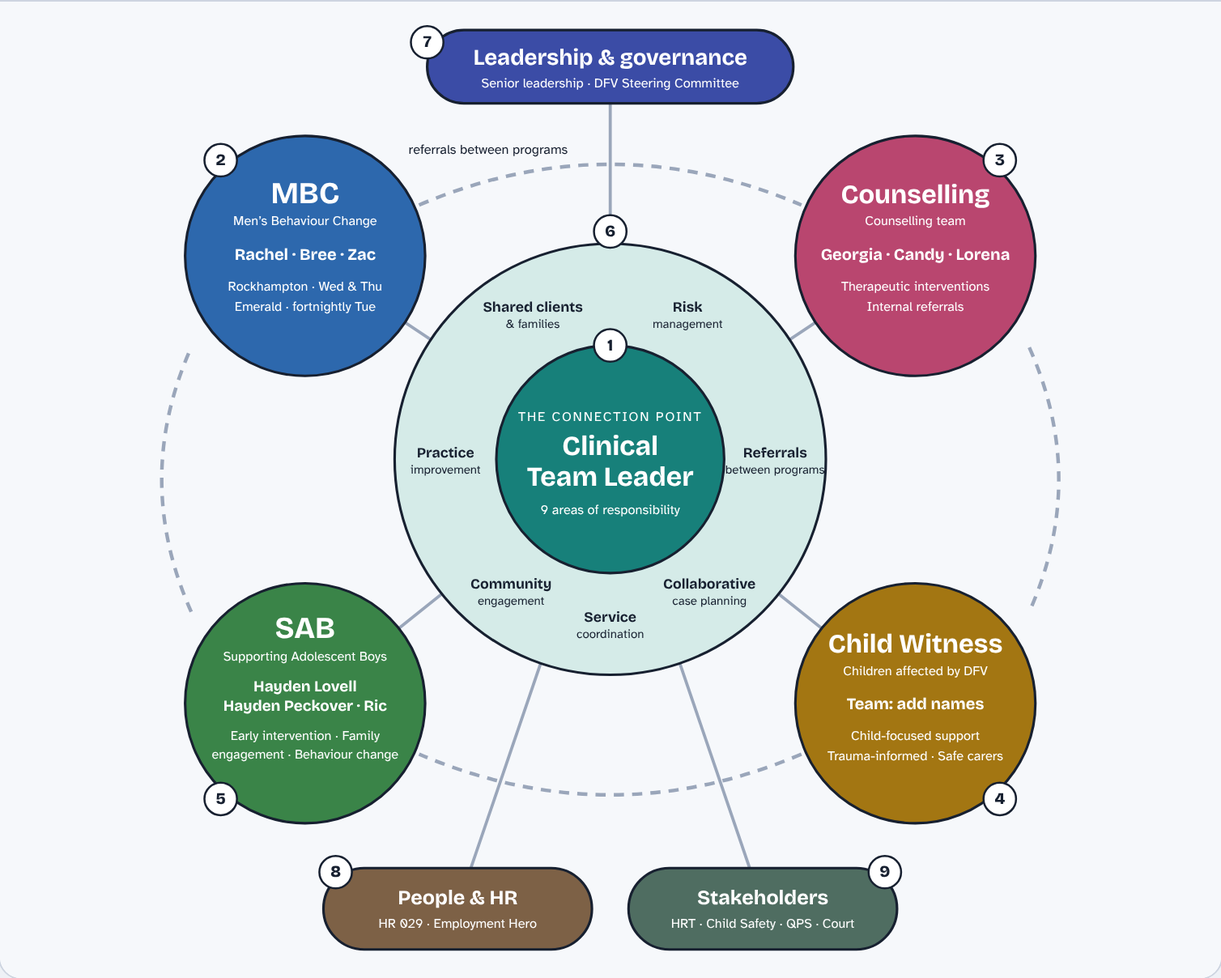
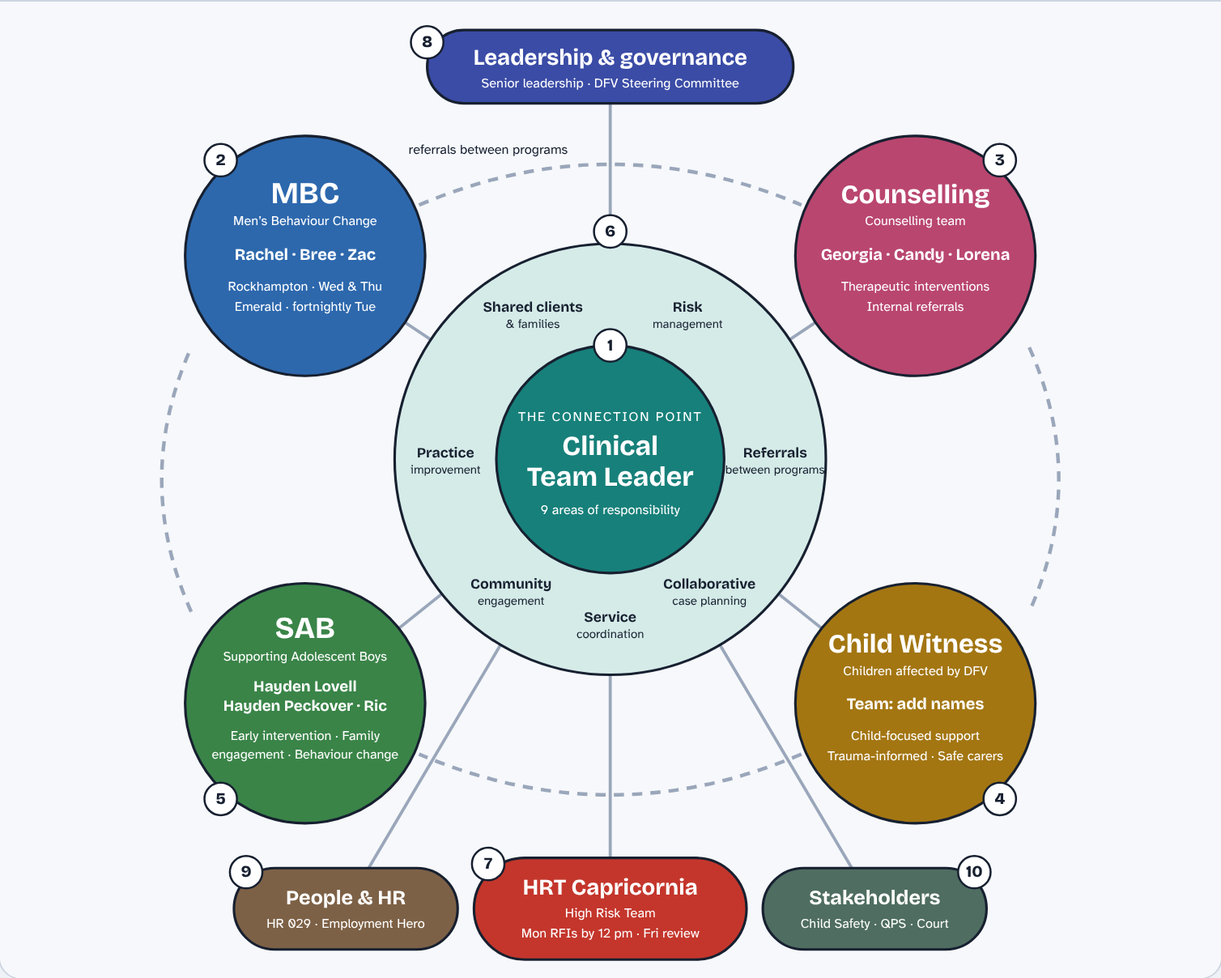
Add HRT Capricornia weekly routine to ecosystem, house map and directions
Claude-Session: https://claude.ai/code/session_019PSDoDWkrb4mkScErA8UkE

diff --git a/Visual Learning Board/clinical-team-leader-ecosystem.html b/Visual Learning Board/clinical-team-leader-ecosystem.html
@@ -7,7 +7,7 @@
 :root {
   --bg: #eef1f6; --surface: #ffffff; --ink: #172030; --muted: #536079; --line: #cdd4e0; --focus: #ff9f1c;
   --canvas: #f6f8fb; --wire: #9aa6ba; --ring: #d5ebe8;
-  --gov: #3b4ca6; --role: #17807a; --admin: #7d6146; --mbc: #2d68ad; --sab: #3a8448; --couns: #b9466f; --part: #4f6d61; --cw: #a37612;
+  --gov: #3b4ca6; --role: #17807a; --admin: #7d6146; --mbc: #2d68ad; --sab: #3a8448; --couns: #b9466f; --part: #4f6d61; --cw: #a37612; --risk: #c4362c;
   --display: "Bricolage Grotesque", "Avenir Next", "Segoe UI", system-ui, sans-serif;
   --body: "Atkinson Hyperlegible", "Verdana", "Segoe UI", system-ui, sans-serif;
 }
@@ -84,7 +84,7 @@ ol.steps li::marker { font-family: var(--display); font-weight: 800; }
   <header>
     <span class="eyebrow">Leadership presentation · CatholicCare CQ DFV services</span>
     <h1>Clinical Team Leader Ecosystem</h1>
-    <p>The Clinical Team Leader is the connection point between four programs, the leadership above them, the people processes that support staff, and the agencies outside. Click any part to zoom in, or press Next to walk the nine stops in presentation order.</p>
+    <p>The Clinical Team Leader is the connection point between four programs, the leadership above them, the people processes that support staff, and the agencies outside. Click any part to zoom in, or press Next to walk the ten stops in presentation order.</p>
   </header>
 
   <section class="board" aria-label="Interactive ecosystem diagram">
@@ -104,8 +104,9 @@ ol.steps li::marker { font-family: var(--display); font-weight: 800; }
         <line class="wire" x1="600" y1="450" x2="900" y2="250"/>
         <line class="wire" x1="600" y1="450" x2="300" y2="690"/>
         <line class="wire" x1="600" y1="450" x2="900" y2="690"/>
-        <line class="wire" x1="600" y1="450" x2="450" y2="890"/>
-        <line class="wire" x1="600" y1="450" x2="750" y2="890"/>
+        <line class="wire" x1="600" y1="450" x2="340" y2="890"/>
+        <line class="wire" x1="600" y1="450" x2="600" y2="890"/>
+        <line class="wire" x1="600" y1="450" x2="860" y2="890"/>
         <!-- referrals between programs -->
         <path class="wire ref" d="M412 200 Q 600 120 788 200"/>
         <path class="wire ref" d="M1012 340 Q 1070 470 1012 600"/>
@@ -114,11 +115,11 @@ ol.steps li::marker { font-family: var(--display); font-weight: 800; }
         <text class="t s ink" x="480" y="150" font-size="13">referrals between programs</text>
 
         <!-- 7 Leadership -->
-        <g class="node" data-z="lead" tabindex="0" role="button" aria-label="Stop 7, leadership and governance">
+        <g class="node" data-z="lead" tabindex="0" role="button" aria-label="Stop 8, leadership and governance">
           <rect class="shape" x="420" y="28" width="360" height="72" rx="36" fill="var(--gov)"/>
           <text class="t" x="600" y="62" font-size="22">Leadership &amp; governance</text>
           <text class="t s" x="600" y="84" font-size="13">Senior leadership · DFV Steering Committee</text>
-          <g class="badge" transform="translate(420,40)"><circle r="16"/><text>7</text></g>
+          <g class="badge" transform="translate(420,40)"><circle r="16"/><text>8</text></g>
         </g>
 
         <!-- 2 MBC -->
@@ -166,20 +167,29 @@ ol.steps li::marker { font-family: var(--display); font-weight: 800; }
           <g class="badge" transform="translate(217,784)"><circle r="16"/><text>5</text></g>
         </g>
 
-        <!-- 8 HR -->
-        <g class="node" data-z="hr" tabindex="0" role="button" aria-label="Stop 8, people and HR processes">
-          <rect class="shape" x="318" y="852" width="264" height="80" rx="40" fill="var(--admin)"/>
-          <text class="t" x="450" y="888" font-size="20">People &amp; HR</text>
-          <text class="t s" x="450" y="911" font-size="13">HR 029 · Employment Hero</text>
-          <g class="badge" transform="translate(330,856)"><circle r="16"/><text>8</text></g>
+        <!-- 9 HR -->
+        <g class="node" data-z="hr" tabindex="0" role="button" aria-label="Stop 9, people and HR processes">
+          <rect class="shape" x="230" y="852" width="220" height="80" rx="40" fill="var(--admin)"/>
+          <text class="t" x="340" y="888" font-size="20">People &amp; HR</text>
+          <text class="t s" x="340" y="911" font-size="13">HR 029 · Employment Hero</text>
+          <g class="badge" transform="translate(242,856)"><circle r="16"/><text>9</text></g>
         </g>
 
-        <!-- 9 Stakeholders -->
-        <g class="node" data-z="stake" tabindex="0" role="button" aria-label="Stop 9, external stakeholders">
-          <rect class="shape" x="618" y="852" width="264" height="80" rx="40" fill="var(--part)"/>
-          <text class="t" x="750" y="888" font-size="20">Stakeholders</text>
-          <text class="t s" x="750" y="911" font-size="13">HRT · Child Safety · QPS · Court</text>
-          <g class="badge" transform="translate(870,856)"><circle r="16"/><text>9</text></g>
+        <!-- 7 HRT -->
+        <g class="node" data-z="hrt" tabindex="0" role="button" aria-label="Stop 7, HRT Capricornia, the High Risk Team">
+          <rect class="shape" x="466" y="842" width="268" height="100" rx="50" fill="var(--risk)"/>
+          <text class="t" x="600" y="878" font-size="22">HRT Capricornia</text>
+          <text class="t s" x="600" y="900" font-size="13">High Risk Team</text>
+          <text class="t s" x="600" y="920" font-size="13">Mon RFIs by 12 pm · Fri review</text>
+          <g class="badge" transform="translate(480,848)"><circle r="16"/><text>7</text></g>
+        </g>
+
+        <!-- 10 Stakeholders -->
+        <g class="node" data-z="stake" tabindex="0" role="button" aria-label="Stop 10, external stakeholders">
+          <rect class="shape" x="750" y="852" width="220" height="80" rx="40" fill="var(--part)"/>
+          <text class="t" x="860" y="888" font-size="20">Stakeholders</text>
+          <text class="t s" x="860" y="911" font-size="13">Child Safety · QPS · Court</text>
+          <g class="badge" transform="translate(958,856)"><circle r="16"/><text>10</text></g>
         </g>
 
         <!-- 6 Overlap ring -->
@@ -215,8 +225,8 @@ ol.steps li::marker { font-family: var(--display); font-weight: 800; }
       <h2 id="pz">Turn the picture into your presentation</h2>
       <ol class="steps">
         <li><b>Background.</b> Upload the ecosystem picture as the Prezi background. Use the labelled version for presenting and the blank one to rehearse.</li>
-        <li><b>Topics.</b> Put a topic over each of the nine parts, named exactly as on the picture.</li>
-        <li><b>Path.</b> Order the path 1 to 9: you, the four programs, the overlap, then outward to leadership, people and stakeholders. End by zooming back out to the whole picture.</li>
+        <li><b>Topics.</b> Put a topic over each of the ten parts, named exactly as on the picture.</li>
+        <li><b>Path.</b> Order the path 1 to 10: you, the four programs, the overlap, HRT, then outward to leadership, people and stakeholders. End by zooming back out to the whole picture.</li>
         <li><b>Subtopics.</b> Inside the centre circle, add the nine responsibilities as three groups of three: Leading practice, Leading people, Leading outward. Three groups are easier to hold than nine items.</li>
         <li><b>Speaker notes.</b> Paste the presenter line for each stop into that topic’s notes.</li>
         <li><b>Rehearse with recall mode.</b> Turn on Recall mode here, click each part and say your line before revealing it.</li>
@@ -237,7 +247,7 @@ const Z = {
     say:'MBC works with men using violence, keeping the safety of women and children at the centre. We run in Rockhampton twice a week and in Emerald fortnightly.',
     what:['Group program for men using violence','Rockhampton groups on Wednesday and Thursday','Emerald group fortnightly on Tuesday','Participation reported through collateral checks and HRT RFIs'],
     who:['Rachel','Bree','Zac'],
-    next:[['couns','Partners and family members referred to Counselling'],['sab','Shared families with adolescent boys'],['stake','Collateral checks and HRT']]},
+    next:[['couns','Partners and family members referred to Counselling'],['sab','Shared families with adolescent boys'],['hrt','RFIs and status updates for HRT']]},
   couns: { n:3, c:'--couns', band:'Program', title:'Counselling team', box:[772,122,256,256],
     say:'The Counselling team provides therapeutic interventions and takes internal referrals from our other programs.',
     what:['Therapeutic interventions','Internal referrals from MBC and SAB'],
@@ -257,18 +267,25 @@ const Z = {
     say:'The programs don’t work in silos. Families, risk and referrals cross between them, and this overlap is where my role adds the most value.',
     what:['Shared clients and families','Risk management','Referrals between programs','Collaborative case planning','Service coordination','Community engagement','Practice improvement'],
     next:[['ctl','The Clinical Team Leader holds the overlap together'],['stake','Community engagement reaches outward']]},
-  lead: { n:7, c:'--gov', band:'Above', title:'Leadership & governance', box:[400,10,400,110],
+  lead: { n:8, c:'--gov', band:'Above', title:'Leadership & governance', box:[400,10,400,110],
     say:'Upward, I report outcomes to senior leadership and the DFV Steering Committee and carry their direction back into practice.',
     what:['CatholicCare CQ senior leadership','DFV Steering Committee priorities and KPIs','Reporting and outcomes','Clinical governance frameworks and policy'],
     next:[['ctl','Direction comes down through the centre'],['hr','Policy shapes people processes']]},
-  hr: { n:8, c:'--admin', band:'Alongside', title:'People & HR processes', box:[300,830,300,120],
+  hr: { n:9, c:'--admin', band:'Alongside', title:'People & HR processes', box:[220,830,240,120],
     say:'Alongside the clinical work, I hold the people processes that keep the team safe, skilled and supported.',
     what:['Line management recorded on HR 029','Employment Hero for leave and compliance','Professional supervision and development','Student placements, including CQU social work','Workforce wellbeing'],
     next:[['ctl','Supervision and support'],['lead','HR policy from leadership']]},
-  stake: { n:9, c:'--part', band:'Outside', title:'External stakeholders', box:[600,830,300,120],
+  hrt: { n:7, c:'--risk', band:'Weekly rhythm · Highest risk', title:'HRT Capricornia (High Risk Team)', box:[450,826,300,130],
+    say:'HRT is where we hold the highest risk together with our partners. Every week I complete our RFIs by Monday midday, answer collateral checks as soon as they arrive, and on Friday we review where every referred PUV and victim-survivor is at.',
+    groups:[['Monday',['Complete and send the RFIs by 12 pm']],
+            ['Every day',['Respond to collateral checks as soon as possible']],
+            ['Friday',['Review of the week','Receive the new RFIs for next week','Status meeting on each PUV and victim-survivor (VS) referred to CatholicCare']]],
+    who:['HRT Capricornia','Tennille and Corin'],
+    next:[['overlap','Risk management across programs'],['mbc','RFIs and collateral checks about MBC participants'],['stake','Child Safety, QPS and Corrections sit at HRT too']]},
+  stake: { n:10, c:'--part', band:'Outside', title:'External stakeholders', box:[740,830,240,120],
     say:'Outward, I keep our partnerships strong, sharing information safely with the agencies that hold risk with us.',
-    what:['HRT Capricornia, the High Risk Team','Child Safety','Queensland Police Service','Corrective Services','Rockhampton court support','CQUniversity'],
-    next:[['ctl','Stakeholder engagement'],['mbc','Collateral checks about MBC participants']]}
+    what:['Child Safety','Queensland Police Service','Corrective Services','Rockhampton court support','CQUniversity'],
+    next:[['ctl','Stakeholder engagement'],['hrt','Partners meet at HRT']]}
 };
 const ORDER = Object.keys(Z).sort((a,b)=>Z[a].n-Z[b].n);
 const svg = document.getElementById('map'), panel = document.getElementById('panel');
@@ -304,14 +321,14 @@ function render(){
   if (!cur){
     panel.style.setProperty('--zc','var(--ink)');
     panel.innerHTML = `<div class="head"><span class="eyebrow">Start here</span><h2>Read it from the centre out</h2></div>
-      <ul><li><b>Centre:</b> the Clinical Team Leader and nine areas of responsibility</li><li><b>Ring:</b> the seven places the programs overlap</li><li><b>Four circles:</b> MBC, Counselling, Child Witness and SAB with their teams</li><li><b>Edges:</b> leadership above, people processes and stakeholders below</li></ul>
+      <ul><li><b>Centre:</b> the Clinical Team Leader and nine areas of responsibility</li><li><b>Ring:</b> the seven places the programs overlap</li><li><b>Four circles:</b> MBC, Counselling, Child Witness and SAB with their teams</li><li><b>Edges:</b> leadership above. Below: people processes, HRT Capricornia and stakeholders</li></ul>
       <p>Dashed lines show referrals moving between the programs.</p>
       <div class="links"><button type="button" data-go="ctl"><span class="dot" style="background:var(--role)"></span><b>Start the walk-through</b></button></div>`;
     return;
   }
   const z = Z[cur];
   panel.style.setProperty('--zc','var('+z.c+')');
-  const head = `<div class="head"><span class="eyebrow">Stop ${z.n} of 9 · ${esc(z.band)}</span><h2>${esc(z.title)}</h2></div>`;
+  const head = `<div class="head"><span class="eyebrow">Stop ${z.n} of 10 · ${esc(z.band)}</span><h2>${esc(z.title)}</h2></div>`;
   if (recall && !revealed){
     panel.innerHTML = head + `<div class="reveal"><p>Say your presenter line out loud, then name what sits here. Then check.</p><button type="button" id="reveal">Reveal</button></div>`;
     document.getElementById('reveal').onclick = ()=>{ revealed = true; render(); };
@@ -328,7 +345,7 @@ function go(k){
   cur = k; revealed = false;
   document.querySelectorAll('.node').forEach(g=>g.classList.toggle('on', g.dataset.z===k));
   zoomTo(k ? pad(Z[k].box) : FULL);
-  document.getElementById('stopcount').textContent = k ? `Stop ${Z[k].n} of 9` : 'Overview';
+  document.getElementById('stopcount').textContent = k ? `Stop ${Z[k].n} of 10` : 'Overview';
   render();
   try { history.replaceState(null,'', k ? '#'+k : location.pathname); } catch(e){}
 }

diff --git a/Visual Learning Board/prezi-build-directions.html b/Visual Learning Board/prezi-build-directions.html
@@ -105,14 +105,16 @@ const ECO_TOPICS = [
   C('--sab','Supporting Adolescent Boys (SAB)','Circle, bottom left'),
   C('--role','Where the overlap occurs','Large circle, over the pale ring'),
   C('--gov','Leadership & governance','Rectangle, top'),
-  C('--admin','People & HR processes','Rectangle, bottom, left of centre'),
-  C('--part','External stakeholders','Rectangle, bottom, right of centre')];
+  C('--admin','People & HR processes','Rectangle, bottom left'),
+  C('--risk','HRT Capricornia (High Risk Team)','Rectangle, bottom centre (red)'),
+  C('--part','External stakeholders','Rectangle, bottom right')];
 const ECO_SUBS = [
   C('--role','Clinical Team Leader','Leading practice: Clinical governance · Quality assurance · Risk assessment and management\nLeading people: Staff development · Supervision and support · Workforce wellbeing\nLeading outward: Stakeholder engagement · Service integration · Reporting and outcomes'),
-  C('--mbc','MBC','Team: Rachel · Bree · Zac\nWhen: Rockhampton Wednesday and Thursday · Emerald fortnightly Tuesday\nConnects to: Counselling referrals · Shared families with SAB · Collateral checks and HRT'),
+  C('--mbc','MBC','Team: Rachel · Bree · Zac\nWhen: Rockhampton Wednesday and Thursday · Emerald fortnightly Tuesday\nConnects to: Counselling referrals · Shared families with SAB · RFIs and status updates for HRT'),
   C('--couns','Counselling','Team: Georgia · Candy · Lorena\nFocus: Therapeutic interventions · Internal referrals\nConnects to: Referrals from MBC and SAB · Shared clients and families'),
   C('--cw','Child Witness','Team: add names\nFocus: Child-focused support · Trauma-informed · Safe carers\nConnects to: SAB · Safe carers to Counselling · Child Safety'),
   C('--sab','SAB','Team: Hayden Lovell · Hayden Peckover · Ric\nFocus: Early intervention · Family engagement · Behaviour change pathways\nConnects to: MBC pathway · Family referrals to Counselling'),
+  C('--risk','HRT Capricornia','Monday: Complete and send the RFIs by 12 pm\nEvery day: Respond to collateral checks as soon as possible\nFriday: Review of the week · New RFIs for next week · Status meeting on each PUV and victim-survivor referred to CatholicCare'),
   C('--role','Where the overlap occurs','Shared clients and families · Risk management · Referrals between programs · Collaborative case planning · Service coordination · Community engagement · Practice improvement')];
 const ECO_NOTES = [
   C('--role','1 · Clinical Team Leader','My role sits at the centre. I connect four programs, the staff in them, our leadership, our people processes and our partner agencies.'),
@@ -121,9 +123,10 @@ const ECO_NOTES = [
   C('--cw','4 · Child Witness','Child Witness supports children who have seen or lived through domestic and family violence, keeping their voices and their safety at the centre.'),
   C('--sab','5 · SAB','SAB is early intervention. We work with adolescent boys and their families on behaviour change pathways before patterns set in.'),
   C('--role','6 · The overlap','The programs don’t work in silos. Families, risk and referrals cross between them, and this overlap is where my role adds the most value.'),
-  C('--gov','7 · Leadership','Upward, I report outcomes to senior leadership and the DFV Steering Committee and carry their direction back into practice.'),
-  C('--admin','8 · People & HR','Alongside the clinical work, I hold the people processes that keep the team safe, skilled and supported.'),
-  C('--part','9 · Stakeholders','Outward, I keep our partnerships strong, sharing information safely with the agencies that hold risk with us.')];
+  C('--risk','7 · HRT Capricornia','HRT is where we hold the highest risk together with our partners. Every week I complete our RFIs by Monday midday, answer collateral checks as soon as they arrive, and on Friday we review where every referred PUV and victim-survivor is at.'),
+  C('--gov','8 · Leadership','Upward, I report outcomes to senior leadership and the DFV Steering Committee and carry their direction back into practice.'),
+  C('--admin','9 · People & HR','Alongside the clinical work, I hold the people processes that keep the team safe, skilled and supported.'),
+  C('--part','10 · Stakeholders','Outward, I keep our partnerships strong, sharing information safely with the agencies that hold risk with us.')];
 
 const HOUSE_TOPICS = [
   C('--gov','Governance & direction','Triangle area, the roof'),
@@ -148,20 +151,20 @@ const PHASES = {
       ['Delete any topics Prezi added for you','Click each one and press Delete. You want an empty canvas.'],
       ['Set ecosystem-labelled.png as the background image','Open the style or theme options, choose Background, and upload the picture. Stretch it to fill the canvas.','The whole diagram shows when you zoom right out.']]},
     { h:'Add a topic over each part', t:'15 min', steps:[
-      ['Add 9 topics, one over each numbered part','Add a topic, then drag and resize it so it sits exactly over that part of the picture. Use a circle for circles and a rectangle for the pill shapes. Copy each title below so the words match the picture.',null,'topics'],
+      ['Add 10 topics, one over each numbered part','Add a topic, then drag and resize it so it sits exactly over that part of the picture. Use a circle for circles and a rectangle for the pill shapes. Copy each title below so the words match the picture.',null,'topics'],
       ['Make the topic frames invisible or transparent','Select each topic and choose a transparent frame in its style options. The picture shows through and Prezi still zooms to it.','You can see the picture clearly with no boxes on top.']]},
     { h:'Fill the topics', t:'15 min', steps:[
-      ['Add subtopics inside the six main topics','Open each topic and add the three groups below as subtopics. Keep it to three per topic. Copy and paste each one.',null,'subs'],
+      ['Add subtopics inside the seven main topics','Open each topic and add the three groups below as subtopics. Keep it to three per topic. Copy and paste each one.',null,'subs'],
       ['Leave Leadership, People & HR and Stakeholders as single slides','The picture already lists what sits there. Your speaker notes do the rest.']]},
     { h:'Set the path', t:'5 min', steps:[
-      ['Check the path order runs 1 to 9','Look at the path list on the left. Drag the topics into this order: Clinical Team Leader, MBC, Counselling, Child Witness, SAB, Where the overlap occurs, Leadership, People & HR, Stakeholders.','The numbers on the left match the badges on the picture.'],
-      ['End on the whole picture','After stop 9, make the last step zoom back out to the full canvas. It lets the audience see the whole ecosystem again while you close.']]},
+      ['Check the path order runs 1 to 10','Look at the path list on the left. Drag the topics into this order: Clinical Team Leader, MBC, Counselling, Child Witness, SAB, Where the overlap occurs, HRT Capricornia, Leadership, People & HR, Stakeholders.','The numbers on the left match the badges on the picture.'],
+      ['End on the whole picture','After stop 10, make the last step zoom back out to the full canvas. It lets the audience see the whole ecosystem again while you close.']]},
     { h:'Add your speaker notes', t:'10 min', steps:[
       ['Paste one presenter line into each topic’s notes','Open the notes area for each topic and paste its line. Only you see these when you present.',null,'notes']]},
     { h:'Rehearse', t:'10 min', steps:[
       ['Duplicate the whole Prezi','Name the copy “Ecosystem rehearsal”.'],
       ['In the copy, swap the background for ecosystem-blank-for-rehearsal.png','The circles and colours stay, the words disappear.'],
-      ['Present the copy once and say each line from memory','Pull the words out before you look. That effort is what makes them stay.','You got through all 9 stops. Check the notes for anything you missed.'],
+      ['Present the copy once and say each line from memory','Pull the words out before you look. That effort is what makes them stay.','You got through all 10 stops. Check the notes for anything you missed.'],
       ['Present the real version once from start to finish','Time it. Aim for about one minute per stop.']]}
   ],
   house: [

diff --git a/Visual Learning Board/cccq-house-map.html b/Visual Learning Board/cccq-house-map.html
@@ -335,7 +335,7 @@ const Z = {
     next:[['role','Records back up your decisions'],['gov','Data feeds the KPIs on the roof']]},
   door:  { n:5,  c:'--door',  band:'Ground floor · Coming in', title:'Front door', box:[440,400,140,240],
     hook:'A letterbox stuffed with envelopes. Referrals, RFIs and collateral checks all come in through this one door.',
-    what:['New referrals into the programs.','Collateral checks from Child Safety, Corrective Services, police and other agencies. You search CSNet and reply Known or Not Known.','Weekly HRT RFIs. A progress email goes to HRT Capricornia, Tennille and Corin before the meeting, and a completed reply after.','Court support requests.'],
+    what:['New referrals into the programs.','Collateral checks from Child Safety, Corrective Services, police and other agencies. You search CSNet and reply Known or Not Known.','HRT RFIs. New RFIs arrive at the Friday HRT meeting, and you complete and send them by 12 pm on Monday.','Collateral checks are answered as soon as possible.','Court support requests.'],
     who:['External agencies','HRT Capricornia, Tennille and Corin'],
     next:[['mbc','Referrals go into a program room'],['admin','Every request is logged'],['part','Replies go back out to the street']]},
   mbc:   { n:6,  c:'--mbc',   band:'Ground floor · Programs', title:'Men’s Behaviour Change (MBC)', box:[190,410,170,200],
@@ -366,7 +366,7 @@ const Z = {
     next:[['gov','The roof rests on these values'],['risk','The alarm runs on them']]},
   part:  { n:11, c:'--part',  band:'Outside · The street', title:'Partners', box:[0,420,1000,360],
     hook:'Neighbours along the street. The courthouse with columns, the police station, Child Safety and Corrections, and the HRT table on the footpath out front.',
-    what:['HRT Capricornia, the High Risk Team, meets weekly. RFIs go to them.','Rockhampton court, staffed through the court support roster.','Child Safety, Corrective Services and Queensland Police send collateral checks.','CQUniversity places social work students with your team.'],
+    what:['HRT Capricornia, the High Risk Team. Friday meeting reviews the week, hands out new RFIs and checks where each referred PUV and victim-survivor (VS) is at. RFIs go back by 12 pm Monday.','Rockhampton court, staffed through the court support roster.','Child Safety, Corrective Services and Queensland Police send collateral checks.','CQUniversity places social work students with your team.'],
     who:['HRT Capricornia, Tennille and Corin','Child Safety','Corrective Services','Queensland Police Service','CQUniversity'],
     next:[['door','Requests walk up to the front door'],['risk','High risk cases go to HRT']]}
 };
@@ -441,8 +441,8 @@ toggle('flowBtn','showflow');
 toggle('recallBtn','recall', on=>{ recall=on; revealed=false; render(); });
 
 const R = [
-  ['Every day', [['risk','Read escalations and risk emails first'],['door','Triage the inbox: collateral checks, referrals'],['admin','Case notes written the same day'],['role','Check in with the team']]],
-  ['Every week', [['mbc','MBC groups in Rockhampton, Wednesday and Thursday'],['mbc','MBC group in Emerald, every second Tuesday'],['door','HRT RFI progress email to HRT Cap, Tennille and Corin'],['part','HRT meeting'],['door','Completed RFIs reply, and FYI to the MBC team'],['admin','Court support roster checked*'],['admin','Receipts into Expense Pro*']]],
+  ['Every day', [['risk','Read escalations and risk emails first'],['door','Respond to collateral checks as soon as possible'],['door','Triage new referrals'],['admin','Case notes written the same day'],['role','Check in with the team']]],
+  ['Every week', [['mbc','MBC groups in Rockhampton, Wednesday and Thursday'],['mbc','MBC group in Emerald, every second Tuesday'],['part','Monday: complete and send HRT RFIs by 12 pm'],['part','Friday: HRT review of the week and new RFIs for next week'],['part','Friday: status meeting on each referred PUV and victim-survivor'],['admin','Court support roster checked*'],['admin','Receipts into Expense Pro*']]],
   ['Every month or so', [['role','Line management meetings, recorded on HR 029*'],['role','Supervision with Brea and the CQU check-ins*'],['role','Practitioner supervision*']]],
   ['Each quarter', [['gov','Steering Committee meeting and KPI update*'],['gov','Program reporting to funders*'],['found','Look back over the house: what changed?']]]
 ];
